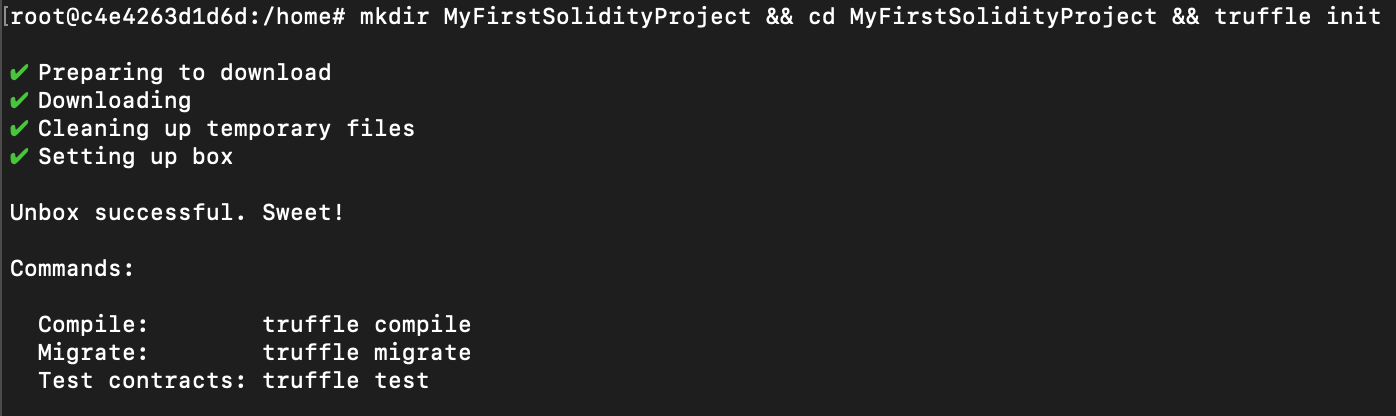
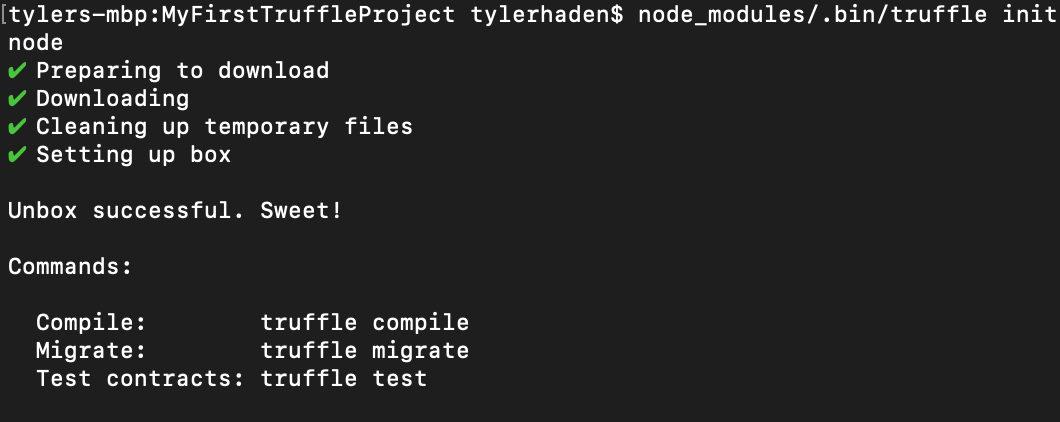
added some pics

diff --git a/blog/creating_your_first_truffle_project.md b/blog/creating_your_first_truffle_project.md
@@ -17,6 +17,7 @@ If you would like to explore the source code as a simple boilerplate project, ch
 ### Assumptions
 This tutorial will assume that you have experience with basic bash, node, and npm. 
 
+
 All of the dependencies we need should be OS agnostic, however if you may need to change the commands to suite your specific shell/OS.
 
 ### Dependencies
@@ -44,11 +45,13 @@ All of the dependencies we need should be OS agnostic, however if you may need t
         
         npm install truffle --save-dev
 
-   - If you want to double check all of our dependencies, run `node_modules/.bin/truffle version` ![todo: add pic]()
+   - If you want to double check all of our dependencies, run `node_modules/.bin/truffle version` ![pic missing](resources/truffle_version.png)
    
 4. Time to run Truffle's project init script
 
         node_modules/.bin/truffle init
+        
+    ![pic missing](resources/truffle_init.png)
 
 Technically you now have a truffle project! It is pretty bare, but lets try to understand what that script did for us.
 
@@ -56,7 +59,7 @@ Technically you now have a truffle project! It is pretty bare, but lets try to u
 
 When you run `ls -l` you should see:
 
-![truffle init directory](resources/truffle_init_directory.png)
+![pic missing](resources/truffle_directory.png)
 
 Truffle init was responsible for creating three directories (`contracts/`, `migrations/`, and `test/`) along with three files (`Migrations.sol`, `1_initial_migrations.js`, and `truffle-config.js`). Here are their descriptions, but examples on how to add to them, and organize your project will continue below.
 
@@ -114,7 +117,7 @@ Let us see if we can compile the single contract that was generated for us. It i
 
         node_modules/.bin/truffle compile
 
-![todo: add pic]()
+![pic missing](resources/truffle_compile.png)
 
 Truffle will create `build/contracts/Migrations.json`. This json file contains a lot of information about the compiled contract. It includes the whole compiled bytecode, along with function signatures, events, docs, and compiler information. 
         
@@ -221,13 +224,13 @@ Anyone who knows the protocols that Ethereum layed out, can run the EVM, or conn
         export MNEMONIC="genuine habit total coast ordinary violin empty mention muffin dream degree bunker"
     **Warning: This mnemonic should be secret!** You should treat this like a password. This is why we will always be using environment variables to inject into our scripts.
     
-    You can randomly generate by running ganach-cli without one. For example `node_modules/.bin/ganache-cli | grep Mnemonic` will output the single line with it. Then you can just kill the process with ^C. ![todo: add image]()
+    You can randomly generate by running ganach-cli without one. For example `node_modules/.bin/ganache-cli | grep Mnemonic` will output the single line with it. Then you can just kill the process with ^C. ![pic missing](resources/ganache_cli_mnemonic.png)
 
 4. Run Ganache and see what is generated
 
         npm run ganache
 
-    ![todo: add pic]()
+    ![pic missing](resources/ganache_cli.png)
     Ganache will generate accounts based on what parameters you run it with. The default is 10 with starting balances of 100 Ether. The cli will display the addresses, private keys, mnemonic, gas price, and gas limit. These addresses can technically be used on any Ethereum blockchain, not just you local one (but they probably have 0 real Ether).
     
     This Ganache client will sit around, waiting for someone to send it a transaction on port 8545 by default. When it receives that transaction, it will attempt to run it on the EVM (see if the bytecode is correct) and it will then immediately create a single block with that transaction (mine the block) . On the main Ethereum blockchain, several transactions will be added to any given block, but we can be less efficient on our local version. All clients like this one should have a specific set of api calls that can read or write to the blockchain. This is why all transactions are public to everyone in the network.
@@ -239,8 +242,8 @@ Anyone who knows the protocols that Ethereum layed out, can run the EVM, or conn
             -H "Content-Type: application/json" \
             -d '{"jsonrpc": "2.0", "method": "web3_clientVersion"}'
 
-    ![todo: add pic of curl]()
-    ![todo: add pic of ganache]()
+    ![missing pic](resources/ganache_cli_curl.png)
+    ![missing pic](resources/ganache_cli_log.png)
     As you can see, our client responds with a client version, which tells us which protocol to use. Don't worry, you probably won't have to deal with different protocol versions if you are reading this article. This is just a way to test that your client is running properly.
     
     These api calls (like `web3_clientVersion`) are part of Ethereum's protocols. Most clients will support the majority of these methods. For an explanation of these methods see the [JSON RPC docs](https://github.com/ethereum/wiki/wiki/JSON-RPC). 
@@ -293,7 +296,9 @@ Now that we have a blockchain client to store our transactions, lets deploy our 
     
     When we run this, truffle will first compile, and then run its migration steps using the development network. The development network simply points to our Ganache client.
     
-    ![todo: add pic]()
+    ![pic missing](resources/truffle_migrate_0.png)
+    ![pic missing](resources/truffle_migrate_1.png)
+    ![pic missing](resources/truffle_migrate_2.png)
     Ganache's output will contain a lot of good information about what was going on. You get back a list of all the API calls made to it, such as "eth_getBlockByNumber" or "eth_sendTransaction". When you send a transaction, it will display things like the transaction hash, gas usage, block number, and contract address (if the transaction created a contract).
     
 As you can see, the client is still running. You can now send transactions to localhost:8545 from browser Javascript libraries ([Web3js](https://web3js.readthedocs.io/en/1.0/)), Java libraries ([WEb3j](https://github.com/web3j/web3j)) or even curl ... although the syntax starts to become cumbersome.
@@ -322,7 +327,7 @@ So far, we have created a real working blockchain. However there are already a f
 
 Again, as long as you know the protocols (which are public domain), you can connect to these public networks with your own custom clients. However, this is a lot of work, and hipsters don't like working more than they have to. So we can either use Ethereum's open source Go client [Geth](https://github.com/ethereum/go-ethereum/wiki/geth) or we can be even lazier, and use a free hosted service called Infura.
 
-[Infura](https://infura.io) is a super easy way to connect to the public networks because you do not have to worry about running code on a server, or keeping it available. We are going to sign up for a free project. It will give us a few important things to work with. For this article, we will need the project id, and the endpoint url. ![todo: add pic?]() We will call this our Infura client because in the background, Infura is running a Geth client as a node in one of the public networks. [Infura's Getting Started Guide](https://blog.infura.io/getting-started-with-infura-28e41844cc89)
+[Infura](https://infura.io) is a super easy way to connect to the public networks because you do not have to worry about running code on a server, or keeping it available. We are going to sign up for a free project. It will give us a few important things to work with. For this article, we will need the project id, and the endpoint url. ![pic missing](resources/infura_console.png) We will call this our Infura client because in the background, Infura is running a Geth client as a node in one of the public networks. [Infura's Getting Started Guide](https://blog.infura.io/getting-started-with-infura-28e41844cc89)
 
 We also want to use public networks because we might want to call other contracts that may not exist on our local development network. For example, if you want to exchange Dai tokens (a stable coin), you have to test on Kovan because only Kovan and Mainnet have the Dai contract.
 
@@ -337,7 +342,7 @@ We also want to use public networks because we might want to call other contract
             -H "Content-Type: application/json" \
             -d '{"jsonrpc":"2.0","method":"web3_clientVersion","params": [],"id":1}'
 
-    ![todo: add pic]()
+    ![pic missing](resources/infura_curl.png)
     Awesome, looks like we hit our new Infura client
 
 ## Forking from Infura
@@ -354,7 +359,7 @@ Luckily, it is very easy to fork into Ganache. We just have to specify the Infur
             ...
             "scripts": {
                 ...
-                "start:kovan": "concurrently \"npm run ganache:kovan\" \"npm run migrate:kovan\"",
+                "start:kovan": "concurrently \"npm run ganache:kovan\" \"npm run migrate\"",
                 "start:rinkeby": "concurrently \"npm run ganache:rinkeby\" \"npm run migrate\"",
                 "start:ropsten": "concurrently \"npm run ganache:ropsten\" \"npm run migrate\"",
                 "ganache:kovan": "npm run ganache -- --fork \"https://kovan.infura.io/v3/$INFURA_PROJECT_ID\"",
@@ -429,7 +434,7 @@ Luckily, it is very easy to fork into Ganache. We just have to specify the Infur
 
 This command will start our local ganache (which forked from kovan), and then will migrate our contracts to it. Our local client will keep running, and we can view the contracts which have been successfully deployed.
 
-Run `node_modules/.bin/truffle networks`: ![todo add pic]()
+Run `node_modules/.bin/truffle networks`: ![pic missing](resources/truffle_networks.png)
 
 You can send function calls as transactions to this address on our local client. 
 
@@ -502,16 +507,19 @@ When working with contract code, you should always follow [best practices](https
 4. Optionally, update `.soliumignore` so that Ethlint will lint `Migrations.sol`
 
 5. Add Ethlint to your list of scripts. Then run the linter:
-
-        "lint:sol": "solium -d .",
-        "lint:sol:fix": "solium -d . --fix"
-    Ethlint will [fix some](https://github.com/duaraghav8/Ethlint/blob/master/lib/solium.js) mistakes
+        
+        {
+            "scripts": {
+                ...
+                "lint:sol": "solium -d ."
+            }
+        }
         
         npm run lint:sol
-    ![todo: add pic]()
+    ![pic missing](resources/solium_lint.png)
     
-    *Todo: explain pic*
-
+    As you can see, the `Migrations.sol` generated for us has some styling errors. You will have to come up with your own criteria linting.
+    
 # Testing
 
 The best part of the whole article, we finally get to write some tests.
@@ -548,7 +556,7 @@ Truffle comes with the command `truffle test` which will run all the unit tests,
                 }
             }
         }
-    This will give us more information during the testing, including gas usage for each function called. ![todo add pic]()
+    This will give us more information during the testing, including gas usage for each function called. ![todo take pic]()
 
 4. Now we can add our first test. Create the file `test/Deployment.test.js`:
 
@@ -594,19 +602,19 @@ Truffle comes with the command `truffle test` which will run all the unit tests,
             await migrations.setCompleted(expectedCompleted, { from: accounts[0] });
     
             assert.equal(expectedCompleted, await migrations.last_completed_migration({ from: accounts[0] }),
-                'setComplete did not update lastCompletedMigration');
+                'setComplete did not update last_completed_migration');
         });
     Here is a unit test that tests the happy path for the function `setCompleted`. Notice the use of async and await in these tests. Every time we call the contract, we must wait for our client to respond. 
 
 6. Run the tests
 
         npm run test
-    ![todo add pic]()
+    ![todo take pic]()
+    
+    Here, we don't see any listed methods in the table. This is because the only non-contract-creation transactions we tested was `last_completed_migration` which was a [*view*](https://solidity.readthedocs.io/en/v0.5.2/contracts.html#view-functions) function, which does not get picked up by Mocha.
     
     We will get back a lot of logs, and the more the better. First, we see ganache starting up and truffle migrating our contract. Next we start to see the tests getting run. Once the pass, we can see the gas usages generated by Mocha.
     
-    If we want, we can now test on the test networks, `npm run test:kovan` for example.
-
 # Wrap up
 
 Hopefully you have learned enough from this article to get started with your own smart contract projects. The languages and tools are constantly improving, and smart contract applications can start relying on tried and tested software development patterns. Don't forget to keep security in mind, and never take someone's word on the state of a contract. Trustless applications are intended to be verified, and bytecode is intended to be public. 
